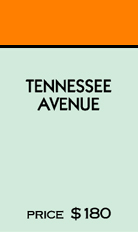
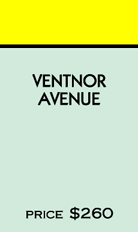
added cards to the main playing area

diff --git a/assets/js/script.js b/assets/js/script.js
@@ -4,8 +4,8 @@ var cardContainerEle = document.getElementById("gameCards");
 var cards = [];
 var cardsFront = [];
 var cardsBack = [];
-var classNames = [
-                  ]
+var classNames = [];
+var numOfCards = 28;
 
 // Card matching mechanics
 var firstCardClicked;
@@ -33,7 +33,7 @@ var resetButtonEle = document.getElementById("reset-button");
 /* ----------- function calls ----------- */
 createCards();
 shuffleCards();
-// addCards();
+addCards();
 
 /*----------- Event Listeners -----------*/
 // Event listener for a click on a card
@@ -146,7 +146,7 @@ function addCards(){
     return "No cards in the collection";
   }
 
-  for (let cardIndex = 0; cardIndex < 18; cardIndex++) {
+  for (let cardIndex = 0; cardIndex < numOfCards; cardIndex++) {
     cardContainerEle.append(cards[cardIndex]);
   }
 }
@@ -158,15 +158,16 @@ function createCards(){
     cardsBack = [];
   }
 
-  for(let cardIndex = 0; cardIndex<18 ; cardIndex++){
+  for(let cardIndex = 0; cardIndex<numOfCards ; cardIndex++){
     cards.push(document.createElement("div"));
     cardsFront.push(document.createElement("div"));
     cardsBack.push(document.createElement("div"));
 
-    cards[cardIndex].classList.add("card", "col-2");
+    cards[cardIndex].classList.add("card", "game-col2");
     cards[cardIndex].setAttribute("id", `card${cardIndex}`)
 
-    cardsFront[cardIndex].classList.add("card-front", `${classNames[cardIndex%9]}`);
+    cardsFront[cardIndex].classList.add("card-front");
+    cardsFront[cardIndex].style.backgroundImage = `url(../images/slim_cards/slim_card_${cardIndex}.jpg)`
     cardsFront[cardIndex].setAttribute("id", `card-front${cardIndex}`);
 
     cardsBack[cardIndex].classList.add("card-back");

diff --git a/assets/css/style.css b/assets/css/style.css
@@ -43,6 +43,8 @@ header{
 }
 
 .cards-container{
+  display: flex;
+  flex-wrap: wrap;
   background-image: url(../images/M_board.jpg);
   background-size: contain;
   background-repeat: no-repeat;
@@ -95,7 +97,7 @@ header{
 }
 
 .card{
-  height: 30%;
+  height: 20%;
   background-image: url(../images/lfz-card.jpg);
   background-size: 100%;
   background-repeat: no-repeat;
@@ -165,6 +167,11 @@ p{
   flex-wrap: nowrap;
   position: relative;
   left: 0.1%;
+}
+
+#gameCards{
+  display: flex;
+  flex-wrap: wrap;
 }
 
 .win-modal{
